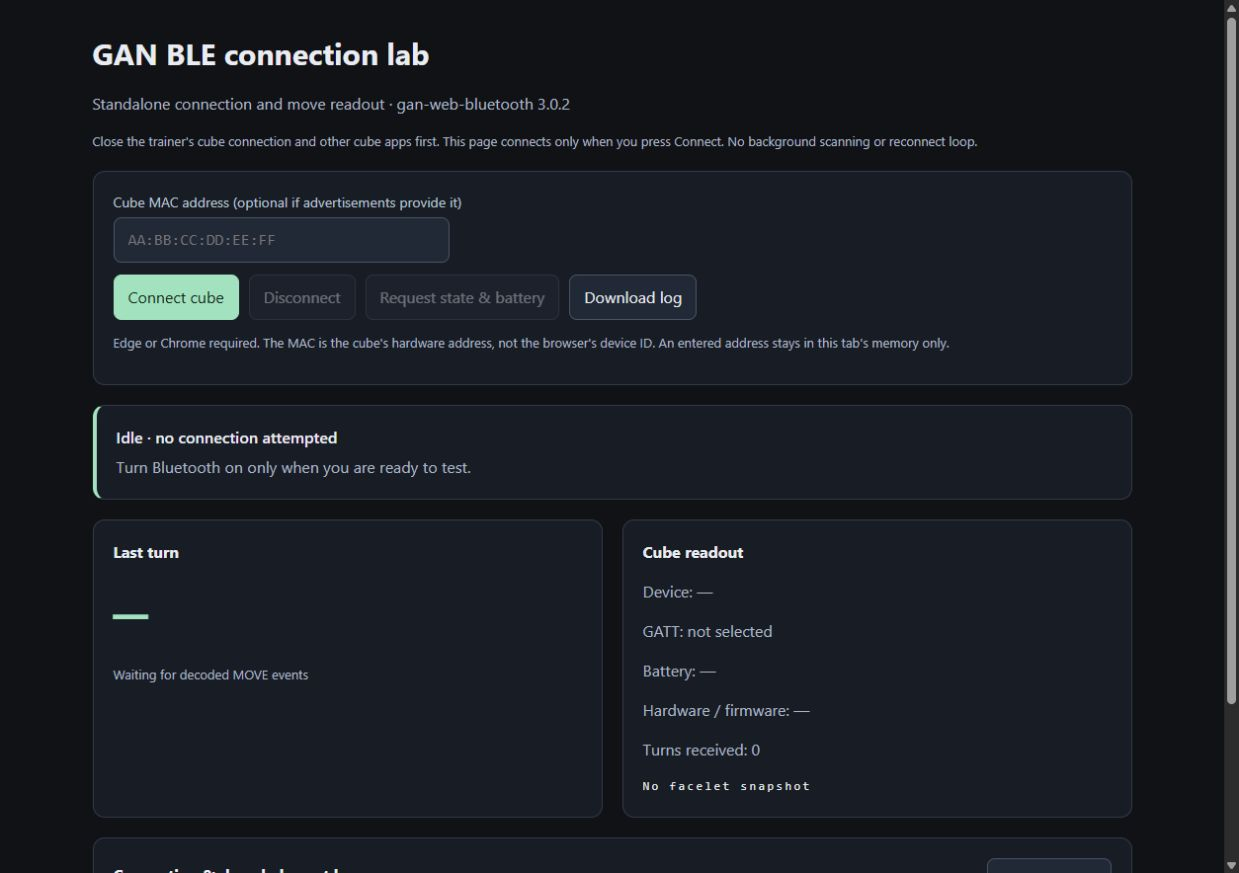
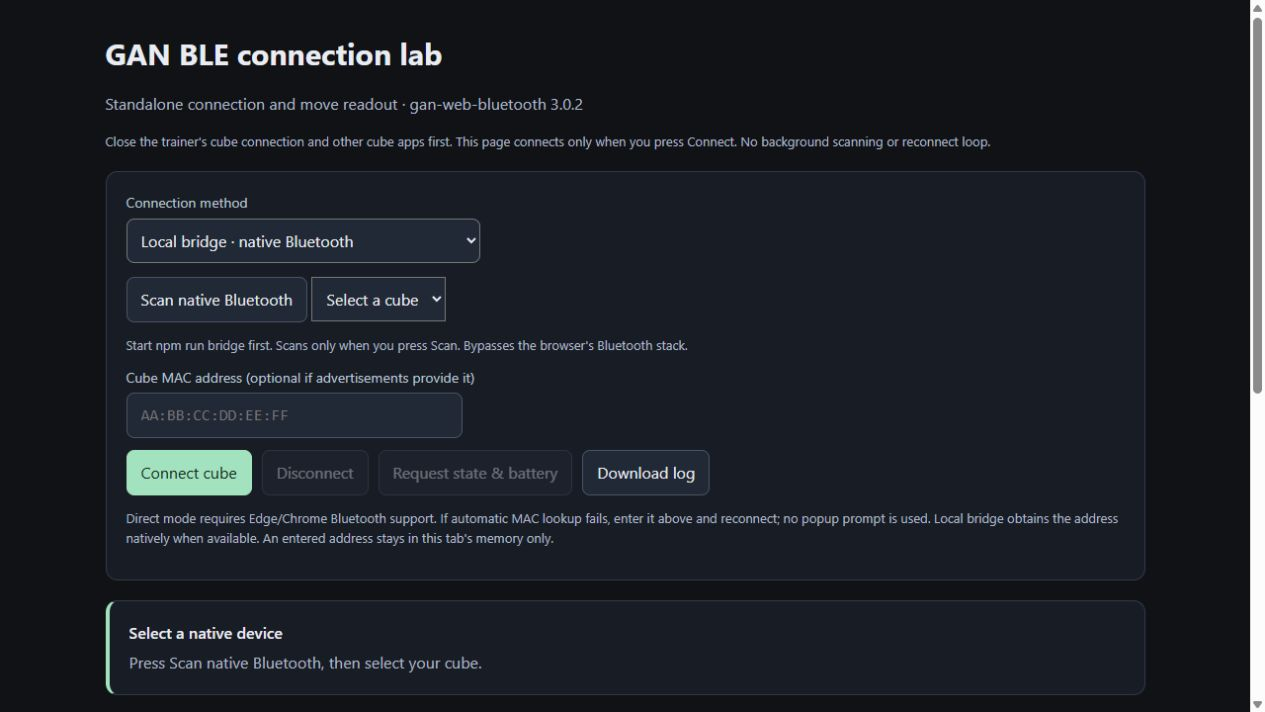
Fix lab MAC fallback and add native Bluetooth comparison

diff --git a/tools/ble-test/main.ts b/tools/ble-test/main.ts
@@ -1,20 +1,25 @@
 import { connectGanCube } from 'gan-web-bluetooth';
 import type { GanCubeConnection, GanCubeEvent } from 'gan-web-bluetooth';
 import type { Subscription } from 'rxjs';
+import { traceGatt } from './traceGatt';
+import { scanBridge, connectNativeBridge } from '../../src/utils/nativeBridge';
 
 const element=(id:string)=>document.getElementById(id)!;
 const button=(id:string)=>element(id) as HTMLButtonElement;
 const mac=element('mac') as HTMLInputElement;
+const transport=element('transport') as HTMLSelectElement,bridgeDevices=element('bridge-devices') as HTMLSelectElement;
 let connection:GanCubeConnection|null=null,subscription:Subscription|null=null,device:BluetoothDevice|null=null;
-let busy=false,ready=false,turns=0,lastSerial:number|null=null,verificationTimer:ReturnType<typeof setTimeout>|undefined;
+let busy=false,ready=false,cancelRequested=false,turns=0,lastSerial:number|null=null,verificationTimer:ReturnType<typeof setTimeout>|undefined;
 let lines:string[]=[],moves:string[]=[];
+let restoreTrace:(()=>void)|undefined;
+function restoreGatt(){restoreTrace?.();restoreTrace=undefined;}
 const started=performance.now();
 function log(message:string){
   lines.push(`${new Date().toISOString()} +${Math.round(performance.now()-started)}ms ${message}`);
   lines=lines.slice(-1000);element('log').textContent=lines.join('\n');element('log').scrollTop=element('log').scrollHeight;
 }
 function status(title:string,detail:string){element('status').textContent=title;element('detail').textContent=detail;}
-function controls(){button('connect').disabled=busy||!!connection;button('disconnect').disabled=busy||!connection;button('refresh').disabled=busy||!connection;mac.disabled=busy||!!connection;}
+function controls(){button('connect').disabled=busy||!!connection;button('disconnect').disabled=!connection&&!device?.gatt?.connected;button('disconnect').textContent=busy?'Cancel connection':'Disconnect';button('refresh').disabled=busy||!connection;mac.disabled=busy||!!connection;transport.disabled=busy||!!connection;bridgeDevices.disabled=busy||!!connection;button('scan').disabled=busy||!!connection;}
 function errorText(error:unknown){return error instanceof Error?`${error.name}: ${error.message}`:String(error);}
 function cleanup(){clearTimeout(verificationTimer);subscription?.unsubscribe();subscription=null;connection=null;ready=false;controls();}
 function onLinkDisconnect(){log('GATT disconnected event');status('Disconnected','The physical BLE link closed. Download the log before another attempt.');}
@@ -42,22 +47,27 @@ async function requestState(){
 }
 button('connect').onclick=async()=>{
   if(busy||connection)return;
-  if(!navigator.bluetooth){status('Web Bluetooth unavailable','Open this test page in Microsoft Edge or Google Chrome.');return;}
+  const native=transport.value==='bridge';
+  cancelRequested=false;
+  if(!native&&!navigator.bluetooth){status('Web Bluetooth unavailable','Use Local bridge or open this test page in Microsoft Edge or Google Chrome.');return;}
+  if(native&&!bridgeDevices.value){status('Select a native device','Press Scan native Bluetooth, then select your cube.');return;}
   const address=mac.value.trim().toUpperCase();
   if(address&&!/^(?:[0-9A-F]{2}:){5}[0-9A-F]{2}$/.test(address)){status('Invalid MAC format','Use six hexadecimal pairs separated by colons.');return;}
-  busy=true;ready=false;controls();log('Connect pressed. Using upstream connectGanCube directly; no app GATT overrides or retries.');status('Choose the cube','Waiting for the browser picker and MAC resolution.');
+  busy=true;ready=false;controls();log(`Connect pressed. Transport=${native?'native bridge':'Web Bluetooth'}; no automatic retries.`);status(native?'Connecting with native Windows Bluetooth':'Choose the cube',native?'The bridge owns service discovery and GAN decoding.':'Waiting for the browser picker and MAC resolution.');
+  restoreGatt();
   device?.removeEventListener('gattserverdisconnected',onLinkDisconnect);device=null;
   try{
-    const conn=await connectGanCube(async(selected,fallback)=>{
+    const conn=native?await connectNativeBridge(bridgeDevices.value,address||undefined):await connectGanCube(async(selected,fallback)=>{
       device=selected;
-      if(!fallback){selected.addEventListener('gattserverdisconnected',onLinkDisconnect);log(`Selected ${selected.name??'(unnamed)'}; GATT connected=${selected.gatt?.connected}`);element('device').textContent=`Device: ${selected.name??'(unnamed)'}`;}
+      if(!fallback){selected.addEventListener('gattserverdisconnected',onLinkDisconnect);log(`Selected ${selected.name??'(unnamed)'}; GATT connected=${selected.gatt?.connected}; watchAdvertisements=${typeof selected.watchAdvertisements}`);element('device').textContent=`Device: ${selected.name??'(unnamed)'}`;if(selected.gatt)restoreTrace=traceGatt(selected.gatt,log);}
       if(address){log('Using explicitly entered MAC (value omitted from log)');status('Connecting GATT and discovering services','MAC supplied; the upstream library now owns service selection and notification setup.');return address;}
       if(!fallback){log('Trying upstream advertisement MAC lookup');status('Resolving cube MAC','The upstream advertisement lookup may take up to 10 seconds.');return null;}
-      const entered=window.prompt('Advertisements did not provide a MAC. Enter the cube hardware MAC from Edge Bluetooth Internals:');
-      if(!entered)return null;
-      const value=entered.trim().toUpperCase();if(!/^(?:[0-9A-F]{2}:){5}[0-9A-F]{2}$/.test(value))throw new Error('Invalid MAC format');mac.value=value;log('Using fallback MAC (value omitted from log)');return value;
+      log('Advertisement MAC unavailable. No browser prompt used.');
+      throw new Error('Enter the cube MAC in the address field above and press Connect cube again, or choose Local bridge to obtain it natively.');
     });
+    if(cancelRequested){await conn.disconnect();throw new Error('Connection cancelled');}
     connection=conn;log('Driver created and notifications subscribed');
+    element('device').textContent=`Device: ${conn.deviceName}`;
     subscription=conn.events$.subscribe({next:onEvent,error:error=>{log(`Stream error: ${errorText(error)}`);status('Stream error',errorText(error));void stop();},complete:()=>{log('Driver stream completed');cleanup();}});
     status('Connected · waiting for decoded state','Requesting hardware, facelets and battery in maintainer example order.');
     verificationTimer=setTimeout(()=>{if(!ready&&connection){log('No valid decoded snapshot within 12 seconds');status('GATT open · decoded state missing','Possible MAC/protocol/notification failure. Download the log. Disconnect when finished.');}},12000);
@@ -72,7 +82,7 @@ button('connect').onclick=async()=>{
     log(`Connection failed: ${errorText(error)}`);
     await stop();
     status('Connection failed',`${errorText(error)}. Download the log to preserve this attempt.`);
-  }finally{busy=false;controls();}
+  }finally{restoreGatt();busy=false;controls();}
 };
 async function stop(){
   const wasBusy=busy;busy=true;
@@ -80,15 +90,26 @@ async function stop(){
   try{await previous?.disconnect();}catch(error){log(`Disconnect cleanup: ${errorText(error)}`);}
   if(device?.gatt?.connected)device.gatt.disconnect();busy=wasBusy;controls();
 }
-button('disconnect').onclick=async()=>{log('Manual disconnect');await stop();status('Disconnected','No automatic reconnection. The cube may return to sleep.');};
+button('disconnect').onclick=async()=>{cancelRequested=true;log('Manual disconnect / cancel');await stop();status(busy?'Cancellation requested':'Disconnected',busy?'The selected GATT link was closed. Waiting for the browser operation to settle; no new attempt will start automatically.':'No automatic reconnection. The cube may return to sleep.');};
 button('refresh').onclick=()=>void requestState().catch(error=>{log(`Request failed: ${errorText(error)}`);status('Request failed',errorText(error));});
 button('clear').onclick=()=>{lines=[];moves=[];turns=0;lastSerial=null;element('log').textContent='';element('moves').textContent='';element('last-move').textContent='—';element('move-info').textContent='Waiting for decoded MOVE events';element('count').textContent='Turns received: 0';};
 button('export').onclick=()=>{
   const text=['GAN BLE standalone lab · gan-web-bluetooth 3.0.2',`Browser: ${navigator.userAgent}`,...lines].join('\n');
   const url=URL.createObjectURL(new Blob([text],{type:'text/plain'})),a=document.createElement('a');a.href=url;a.download='gan-ble-lab.txt';a.click();setTimeout(()=>URL.revokeObjectURL(url),1000);
 };
-const poll=setInterval(()=>{element('link').textContent=`GATT: ${device?device.gatt?.connected?'connected':'disconnected':'not selected'}`;},250);
+const poll=setInterval(()=>{element('link').textContent=transport.value==='bridge'?`Native link: ${connection?'connected through bridge':'not connected'}`:`GATT: ${device?device.gatt?.connected?'connected':'disconnected':'not selected'}`;controls();},250);
 window.addEventListener('pagehide',()=>{clearInterval(poll);if(device?.gatt?.connected)device.gatt.disconnect();});
 log(`Lab loaded. Web Bluetooth ${navigator.bluetooth?'available':'unavailable'}. No connection attempted.`);
+log(`Browser: ${navigator.userAgent}`);
+transport.onchange=()=>{element('native-controls').hidden=transport.value!=='bridge';status('Transport selected',transport.value==='bridge'?'Press Scan native Bluetooth when ready. This bypasses browser Bluetooth; the local bridge must be running.':'Direct upstream Web Bluetooth with connect/service timing observations; no retries.');};
+button('scan').onclick=async()=>{
+  if(busy||connection)return;busy=true;controls();log('User requested native scan');status('Scanning native Bluetooth','Scanning for 5 seconds through the local bridge…');
+  try{
+    const devices=await scanBridge();bridgeDevices.replaceChildren(new Option('Select a cube',''));
+    for(const found of devices)bridgeDevices.add(new Option(`${found.name} · ${found.rssi} dBm${found.mac?' · address detected':''}`,found.id));
+    log(`Native scan found ${devices.length} cube(s)`);status(devices.length?'Select a cube, then Connect cube':'No cubes found','Native scan finished; no device has been connected.');
+  }catch(error){log(`Native scan failed: ${errorText(error)}`);status('Native scan failed',errorText(error));}
+  finally{busy=false;controls();}
+};
 window.addEventListener('unhandledrejection',event=>log(`Unhandled decoder/runtime rejection: ${errorText(event.reason)}`));
 window.addEventListener('error',event=>log(`Runtime error: ${event.message}`));

diff --git a/tools/ble-test/index.html b/tools/ble-test/index.html
@@ -12,10 +12,13 @@
   <p>Standalone connection and move readout · gan-web-bluetooth 3.0.2</p>
   <p class="small">Close the trainer's cube connection and other cube apps first. This page connects only when you press Connect. No background scanning or reconnect loop.</p>
   <section class="panel">
+    <label for="transport">Connection method</label>
+    <select id="transport" style="font:inherit;padding:10px;margin:6px 0 14px;background:#222936;color:inherit;border-radius:8px"><option value="web">Direct Web Bluetooth · traced reference path</option><option value="bridge">Local bridge · native Bluetooth</option></select>
+    <div id="native-controls" hidden><button id="scan">Scan native Bluetooth</button> <select id="bridge-devices" aria-label="Native cube" style="font:inherit;padding:10px;background:#222936;color:inherit"><option value="">Select a cube</option></select><p class="small">Start npm run bridge first. Scans only when you press Scan. Bypasses the browser's Bluetooth stack.</p></div>
     <label for="mac">Cube MAC address (optional if advertisements provide it)</label>
     <input id="mac" placeholder="AA:BB:CC:DD:EE:FF" autocomplete="off" spellcheck="false" maxlength="17">
     <div class="controls"><button id="connect" class="primary">Connect cube</button><button id="disconnect" disabled>Disconnect</button><button id="refresh" disabled>Request state & battery</button><button id="export">Download log</button></div>
-    <p class="small">Edge or Chrome required. The MAC is the cube's hardware address, not the browser's device ID. An entered address stays in this tab's memory only.</p>
+    <p class="small">Direct mode requires Edge/Chrome Bluetooth support. If automatic MAC lookup fails, enter it above and reconnect; no popup prompt is used. Local bridge obtains the address natively when available. An entered address stays in this tab's memory only.</p>
   </section>
   <section class="panel status" aria-live="polite"><div id="status">Idle · no connection attempted</div><p id="detail">Turn Bluetooth on only when you are ready to test.</p></section>
   <div class="grid">

diff --git a/tools/ble-test/traceGatt.ts b/tools/ble-test/traceGatt.ts
@@ -1,0 +1,16 @@
+/** Observe the reference path without retries, extra BLE calls, or result changes. */
+export function traceGatt(gatt:BluetoothRemoteGATTServer,log:(line:string)=>void):()=>void {
+  const connect=gatt.connect,discover=gatt.getPrimaryServices;
+  gatt.connect=async()=>{
+    const start=performance.now();log(`gatt.connect BEGIN connected=${gatt.connected}`);
+    try{const server=await connect.call(gatt);log(`gatt.connect RESOLVED after ${Math.round(performance.now()-start)}ms connected=${gatt.connected}; returned.connected=${server.connected}`);return server;}
+    catch(error){log(`gatt.connect REJECTED connected=${gatt.connected}: ${describe(error)}`);throw error;}
+  };
+  gatt.getPrimaryServices=async service=>{
+    const start=performance.now();log(`getPrimaryServices BEGIN connected=${gatt.connected}`);
+    try{const services=await discover.call(gatt,service);log(`getPrimaryServices RESOLVED after ${Math.round(performance.now()-start)}ms connected=${gatt.connected}: ${services.map(s=>s.uuid).join(', ')||'none'}`);return services;}
+    catch(error){log(`getPrimaryServices REJECTED after ${Math.round(performance.now()-start)}ms connected=${gatt.connected}: ${describe(error)}`);throw error;}
+  };
+  return()=>{gatt.connect=connect;gatt.getPrimaryServices=discover;};
+}
+function describe(error:unknown){return error instanceof Error?`${error.name}: ${error.message}`:String(error);}

diff --git a/tools/ble-test/README.md b/tools/ble-test/README.md
@@ -6,10 +6,10 @@ Run from the repository root:
 npm run test:ble
 ```
 
-Open **http://127.0.0.1:5174/** in Edge or Chrome. This separate Vite app imports `gan-web-bluetooth` directly. It does not load React, the trainer, timer, viewer, manager, native bridge, grip conversion, move guard, GATT retry wrapper, or trainer preferences. HMR is disabled to avoid edits refreshing an active test. It uses the installed MIT dependency and reference initialization sequence, not a new GAN protocol implementation.
+Open **http://127.0.0.1:5174/**. Direct mode imports `gan-web-bluetooth` directly. It does not load React, the trainer, timer, viewer, manager, grip conversion, move guard, GATT retry wrapper, or trainer preferences. HMR is disabled to avoid edits refreshing an active test. It uses the installed MIT dependency and reference initialization sequence, not a new GAN protocol implementation. Direct mode adds transparent observation of connect/service calls, with no retries, extra BLE requests or altered results.
 
 1. Disconnect the main trainer and other cube apps. Enable Bluetooth when ready, wake the cube, and enter its actual MAC if known.
-2. Press **Connect cube** and select the cube. Leaving the MAC blank tries upstream advertisement lookup; if unavailable, a prompt asks for it.
+2. In Direct Web Bluetooth mode, press **Connect cube** and select the cube. Leaving the MAC blank tries upstream advertisement lookup; if unavailable, enter the MAC in the inline field and press Connect again. No browser `prompt()` is used.
 3. Look for **Receiving decoded cube state**. GATT alone is insufficient. Gen3 move decoding requires an initial facelets serial.
 4. Turn R, U, then U' slowly. Last turn, recent sequence, serial, timestamps and total should update. These are raw sensor faces without solving-grip remapping.
 5. **Download log** preserves decoded events, services, timing and exceptions. **Disconnect** when finished. No automatic retries, reset, solve storage, uploads or idle scanning occur.
@@ -17,6 +17,12 @@ Open **http://127.0.0.1:5174/** in Edge or Chrome. This separate Vite app import
 Battery and hardware/firmware depend on device support and may arrive after the snapshot. **Request state & battery** repeats hardware → facelets → battery. It does not reset state. **Clear readout** clears the event/move display and counter without disconnecting or changing the cube.
 
 MAC input stays in memory and is omitted from explicit logs. Downloaded logs include browser version, device name, hardware responses and turn history. Reloading loses the log and disconnects the selected link. Closing the page releases the direct connection. Stop the server with Ctrl+C when no longer needed.
+
+## Native comparison
+
+Run `npm run bridge`, select **Local bridge · native Bluetooth**, and explicitly press **Scan native Bluetooth**. Select the cube from the resulting list, then **Connect cube**. This uses the existing native transport client and decoder, bypassing browser Bluetooth. It normally detects the actual address without manual entry. The loopback server permits this test page's port 5174. No scan or connection happens on page load or transport selection. Native connections close on explicit disconnect; closing the page stops its heartbeat and the server releases the lease after its 15-second timeout.
+
+The direct trace distinguishes `gatt.connect BEGIN/RESOLVED/REJECTED` and `getPrimaryServices BEGIN/RESOLVED/REJECTED`, including actual connected flags and elapsed time. Methods are restored after setup. **Cancel connection** can close an already-open direct GATT link during pending discovery; a new attempt remains disabled until the outstanding browser operation settles. It cannot cancel the browser picker or an OS operation that ignores disconnection.
 
 Build/type-check independently with `npm run build:ble`. Output is ignored `dist/ble-test/`; a subsequent main build clears `dist`, so rebuild the lab if production output is needed. Its dev command is independent of build output.
 

diff --git a/docs/ICARRY4_BLE_RESEARCH.md b/docs/ICARRY4_BLE_RESEARCH.md
@@ -42,6 +42,12 @@ The main app adds shared readiness validation and bounded reconnects adapted fro
 
 ## What the error establishes
 
+Follow-up hardware log: the device advertises as `GANic4_3730`. The first lab attempt failed on unsupported browser `prompt()` before GATT setup; the lab now uses inline MAC guidance. With an explicit MAC, a later attempt emitted a disconnect about 11.4 seconds after selection and rejected service retrieval. This reproduces the issue outside the trainer. The old log did not observe the resolution of `gatt.connect()` separately, so it cannot show whether connect returned a live link or discovery subsequently lost it. Transparent call tracing and an explicit native bridge comparison are now available in the lab. A later UI observation showed a pending reference-path attempt with GATT marked connected but no driver/readout yet; that attempt was not interrupted by the agent.
+
+[Microsoft's GATT client guidance](https://learn.microsoft.com/en-us/windows/apps/develop/devices-sensors/gatt-client) distinguishes creating a device reference, establishing connectivity and discovering services; Windows operations may wait on queued requests. [Chromium's Web Bluetooth guide](https://developer.chrome.com/docs/capabilities/bluetooth) also treats connect and service discovery as separate awaited operations. These sources justify tracing the boundary; they do not establish a Windows timeout as this cube's root cause.
+
+The subsequent test-server restart to activate the proxy refreshed open lab pages, ending the pending browser attempt. The updated lab was left idle. Native `/status` returned `connected=false, busy=false` through the lab's proxy. No agent-initiated hardware scan or connection occurred. The updated suite has 42 checks, including trace transparency and the connect-success/service-disconnect distinction. Lab build, lint and TypeScript pass.
+
 `GATT Server is disconnected. Cannot retrieve services` places the failure at service discovery, before packet-driver selection/decryption. A wrong MAC can prevent later decoding; this error alone does not demonstrate wrong MAC, unsupported packets, low battery, another app or insufficient delay.
 
 Next-test evidence: advertised name, connected state, service UUIDs if reached, exact error and elapsed time. The main app now exports setup observations; the independent lab exports decoded events/errors. Failure in both narrows investigation toward library/browser/OS/device boundaries; lab success with trainer failure points toward app integration. Neither alone identifies the specific cause.

diff --git a/README.md b/README.md
@@ -13,7 +13,7 @@ Install Java 17+ first. The launcher downloads the pinned official TNoodle-WCA 1
 
 ## Practice
 
-For isolated hardware debugging, run `npm run test:ble` and open **http://127.0.0.1:5174/** in Edge. The [temporary BLE lab](./tools/ble-test/README.md) shows raw moves, serials, timestamps, battery, facelets and downloadable logs using the GAN library directly. It does not load the trainer or its GATT retry wrapper. See the [i Carry 4 research](./docs/ICARRY4_BLE_RESEARCH.md) for reported Gen3 support and verification limits.
+For isolated hardware debugging, run `npm run test:ble` and open **http://127.0.0.1:5174/**. The [temporary BLE lab](./tools/ble-test/README.md) shows raw moves, serials, timestamps, battery, facelets and downloadable logs. Direct mode uses the GAN library with transparent GATT timing logs and no retries; Local bridge uses native Bluetooth via `npm run bridge`. It does not load the trainer. See the [i Carry 4 research](./docs/ICARRY4_BLE_RESEARCH.md) for reported Gen3 support and verification limits.
 
 1. Start with a solved cube and choose the matching up/front solving frame.
 2. Browse F2L / OLL / PLL sections, select preferred alternates, and add individual algorithms or the visible section to a training session. Choose balanced cycles or adaptive weighting, then start training.
